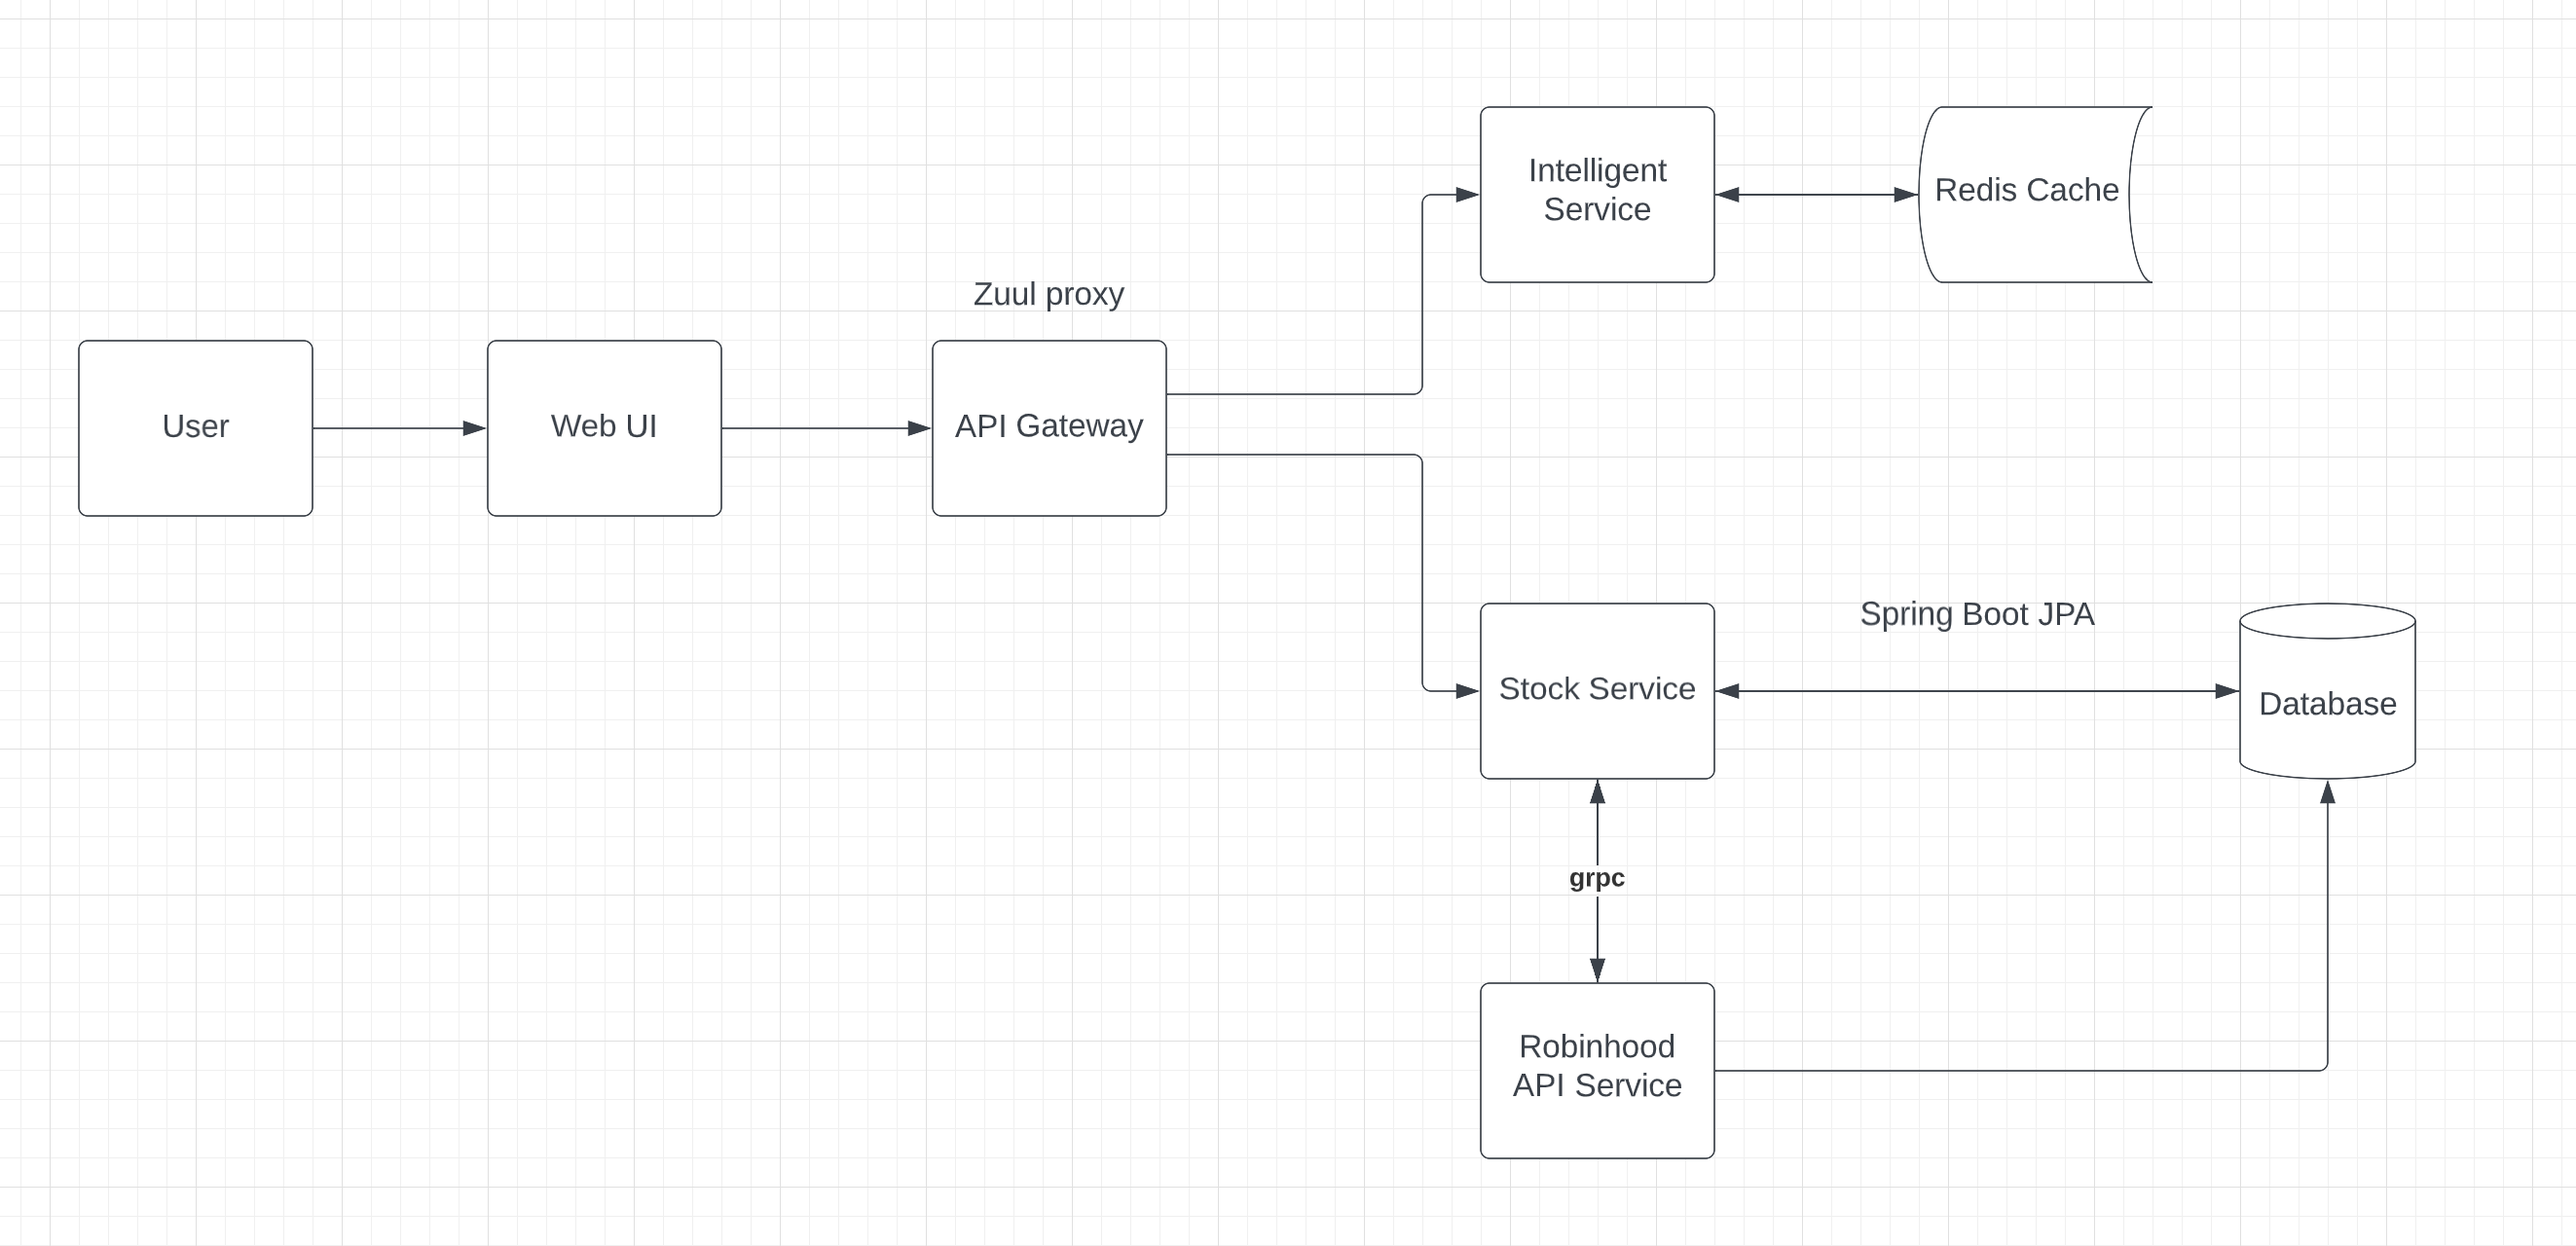
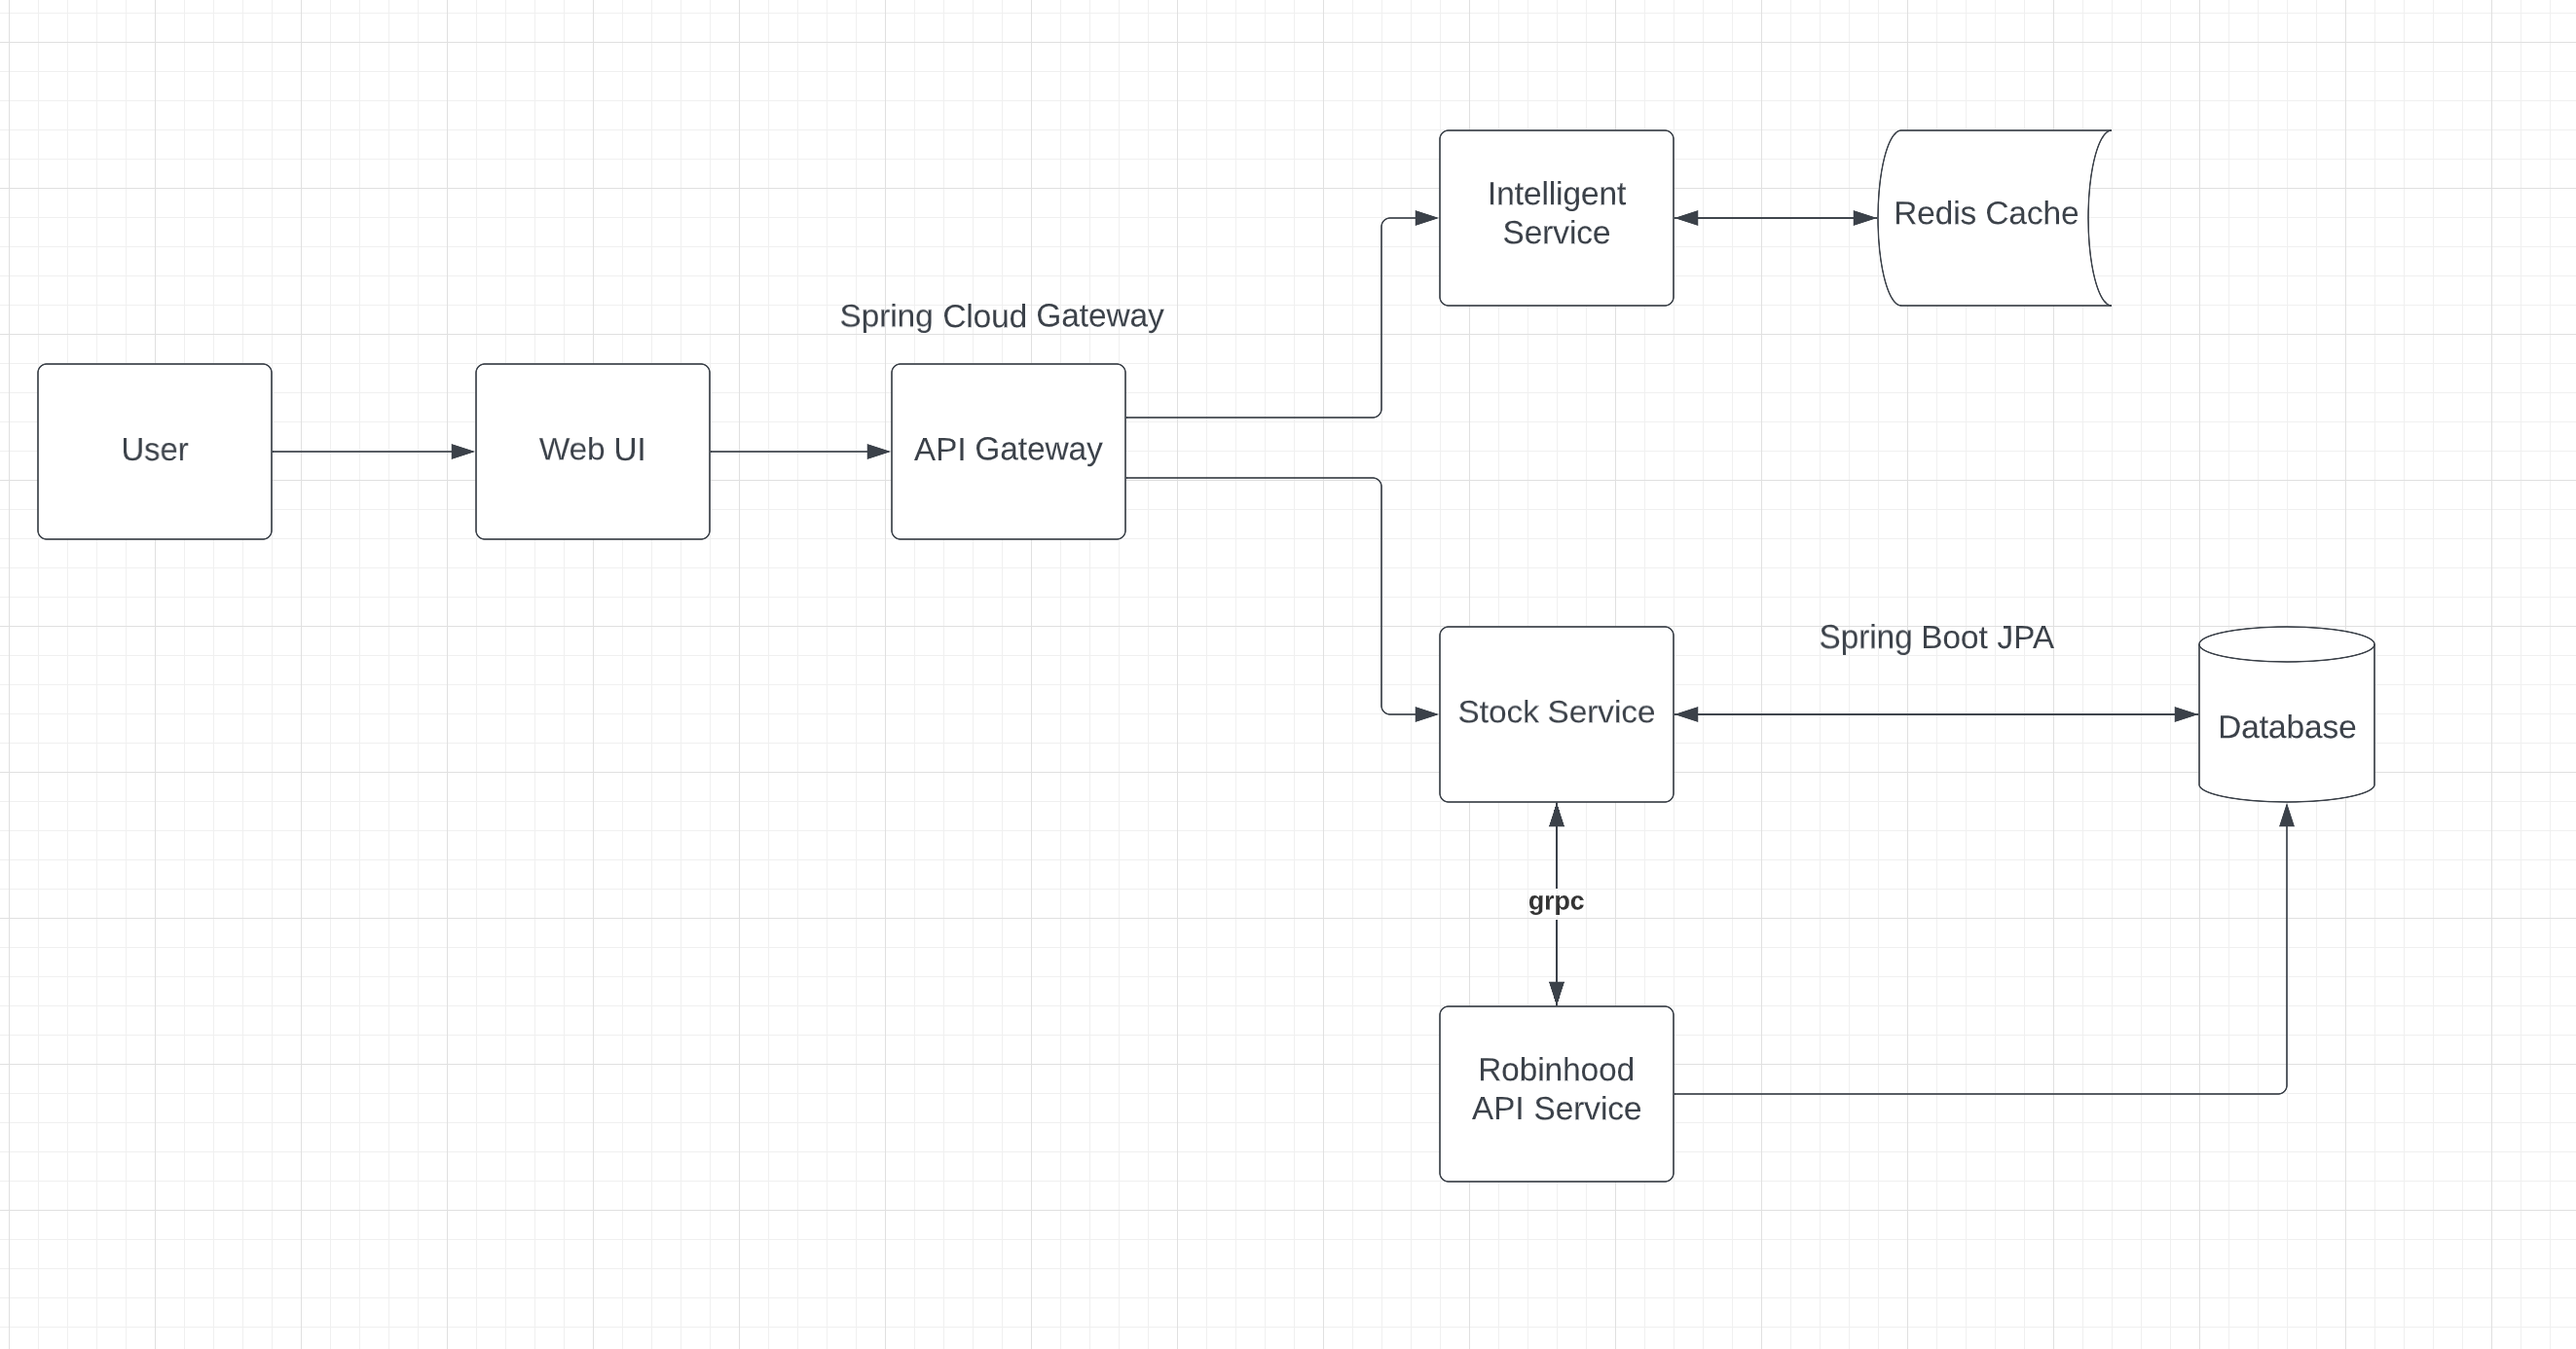
Spring Cloud API Gateway completed

diff --git a/Intelligent-Service/template/result.html b/Intelligent-Service/template/result.html
@@ -19,7 +19,7 @@
 </head>
 <body>
     <h1><b1>Prediction Data Visualization:</b1></h1>
-    <h1><img src="../plotfig/prediction.png" width="1200" height="600"/></h1>
+    <h1><img src="http://localhost:8084/plotfig/prediction.png" width="1200" height="600"/></h1>
     <h1>According to last 60 days data, the price model predict in target day is</h1>
     <h1><b1>{{price}}</b1></h1>
     <h1><a href="/intelligent" class="block">Back</a></h1>

diff --git a/API-Gateway/src/main/java/com/aaron/GatewayApplication.java b/API-Gateway/src/main/java/com/aaron/GatewayApplication.java
@@ -1,0 +1,30 @@
+package com.aaron;
+
+
+import org.springframework.beans.factory.annotation.Value;
+import org.springframework.boot.SpringApplication;
+import org.springframework.boot.autoconfigure.SpringBootApplication;
+import org.springframework.cloud.gateway.route.RouteLocator;
+import org.springframework.cloud.gateway.route.builder.RouteLocatorBuilder;
+import org.springframework.context.annotation.Bean;
+
+@SpringBootApplication
+public class GatewayApplication {
+
+    @Value("${local.address}")
+    private String localAddress;
+    public static void main(String[] args) {
+        SpringApplication.run(GatewayApplication.class, args);
+    }
+
+    @Bean
+    public RouteLocator customRouteLocator(RouteLocatorBuilder builder) {
+        return builder.routes()
+                .route("stock", r -> r.path("/stock/**")
+                        .uri("http://"+localAddress+":8082/stock/login"))
+                .route("intelligent", r -> r.path("/intelligent/**")
+                        .uri("http://"+localAddress+":8084/intelligent"))
+                .build();
+    }
+
+}
